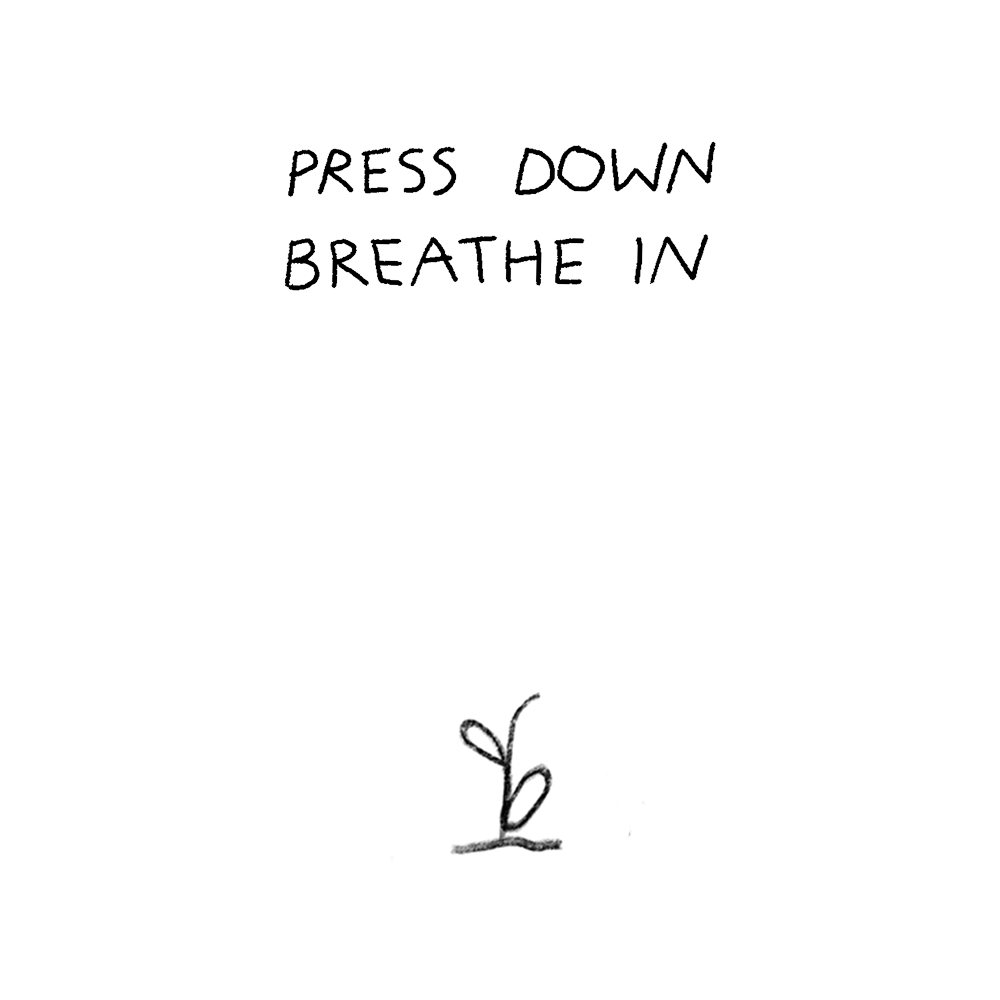
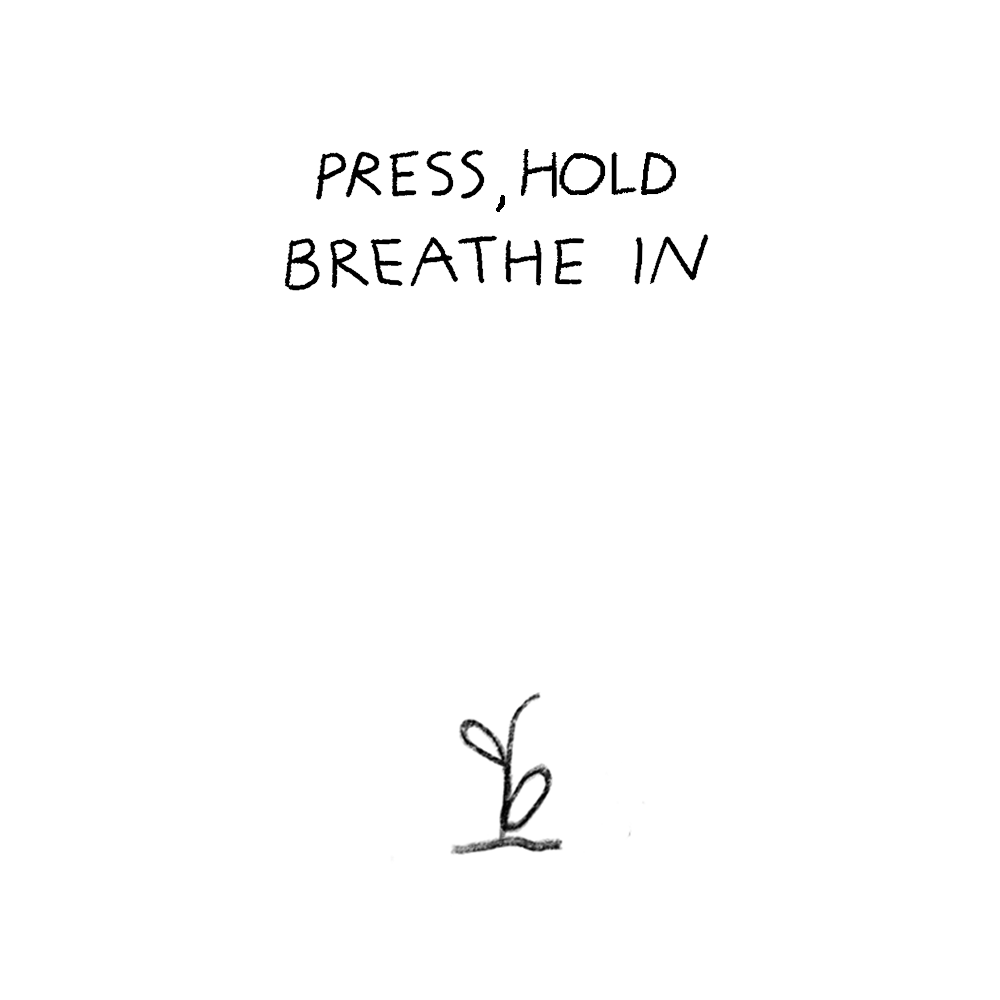
Changed type for down again, press hold now

Changed region(s): [[0.279, 0.124, 0.713, 0.217]]

diff --git a/breathe/css/style.css b/breathe/css/style.css
@@ -164,6 +164,7 @@ body,
     }
     #tutorial-container img {
         width: 50%;
+        margin-top: 10%;
     }
     #explainer-content {
         width: 860px;
